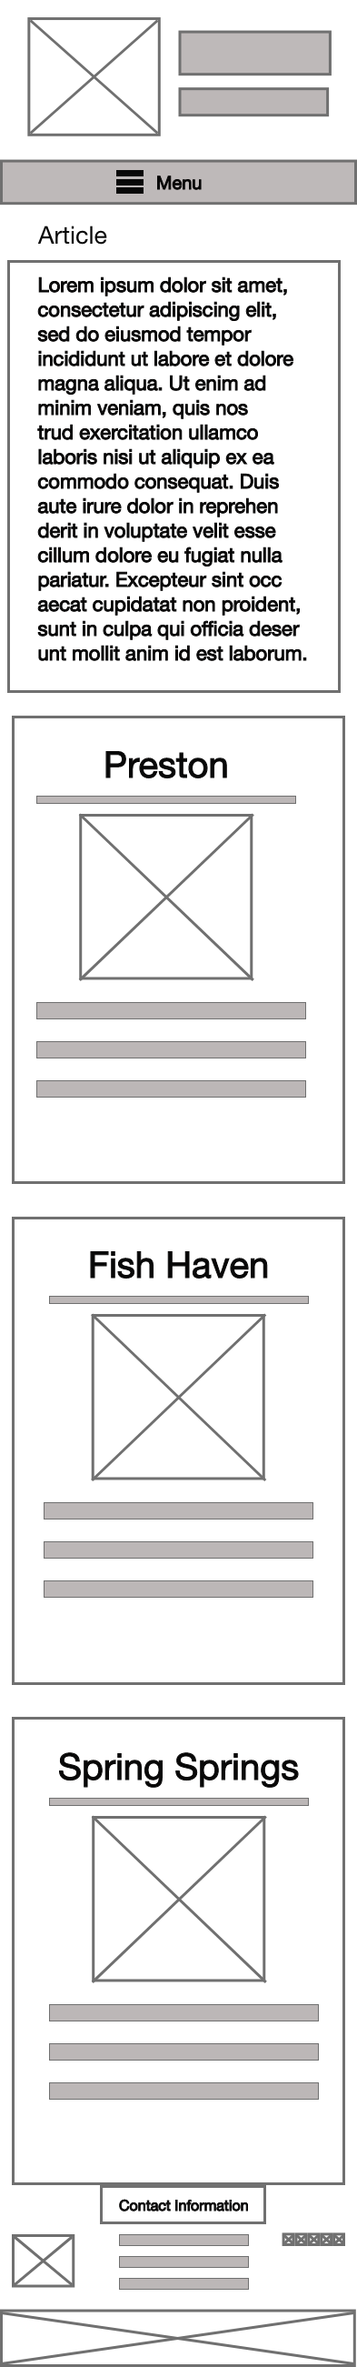
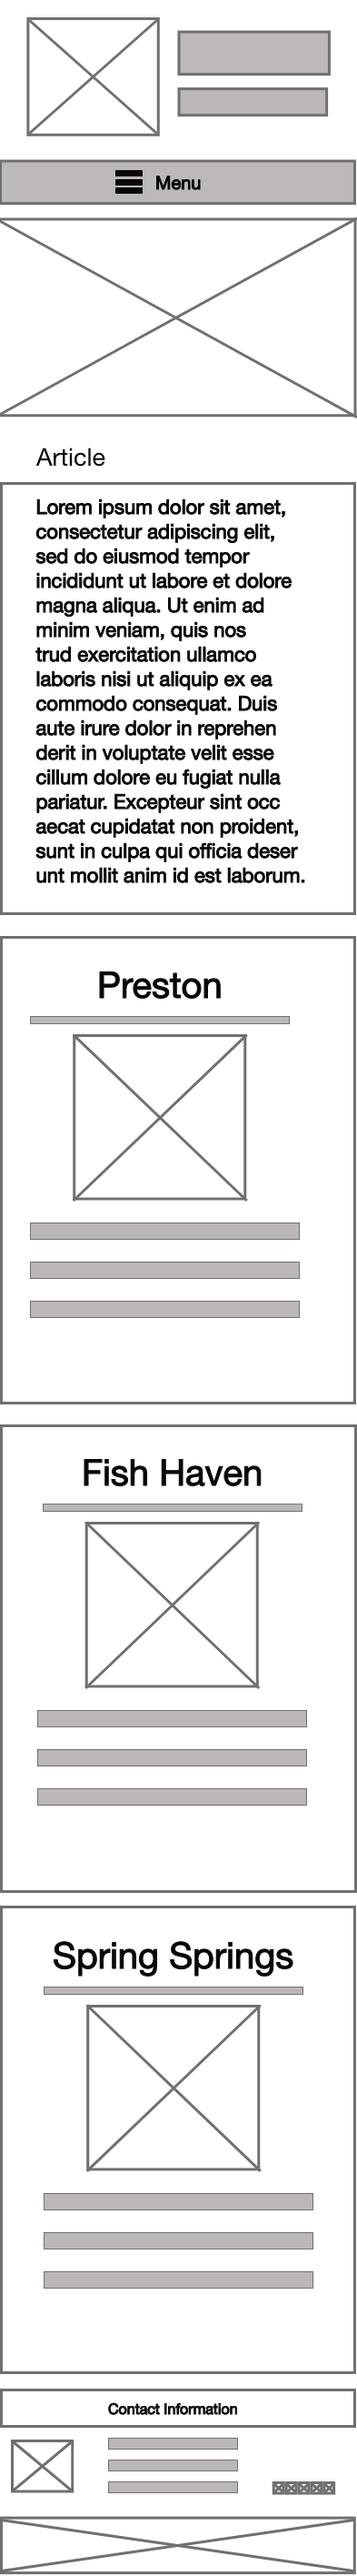
update

Changed region(s): [[0.0, 0.0, 1.0, 1.0]]

diff --git a/lesson9/index.html b/lesson9/index.html
@@ -1,0 +1,73 @@
+<!DOCTYPE html>
+<html lang="en">
+<head>
+    <meta charset="UTF-8">
+    <meta http-equiv="X-UA-Compatible" content="IE=edge">
+    <meta name="viewport" content="width=device-width, initial-scale=1.0">
+    <link rel="shortcut icon" href="./images/favicon.ico" type="image/x-icon">
+    <link href="css/main.css" rel="stylesheet">
+    <link href="css/medium.css" rel="stylesheet">
+    <link href="css/large.css" rel="stylesheet">
+    <link href="css/normalize.css" rel="stylesheet">
+    
+    <title>Home</title>
+</head>
+<body>
+     <header>
+     <div class="top">
+         <img src="images/cloudy.png" alt="Weather Sunny logo" id="logo">
+         <h1>Weather Sunny</h1>
+         <h3>"Weather" or not it is sunny or cold, you will always be prepared.</h3>
+     </div>
+     </header>
+     <div class="lastvisit"> Days since visit</div>
+     <nav>
+         <ul class="navigation responsive">
+             <li class="ham-menu"><a href="#" onclick="toggleMenu()">
+                 <span class="button">&#9776; Menu</span></a></li>
+             <li><a href="index.html" class="active">Home</a></li>
+             <li><a href="../lesson5/preston-5.html">Preston</a></li>
+             <li><a href="#">Soda Springs</a></li>
+             <li><a href="#">Fish Haven</a></li>
+             <li><a href="../lesson8/stormcenter.html">Storm Center</a></li>
+             <li><a href="../lesson7/gallery-7.html">Gallery</a></li>
+         </ul>
+     </nav>
+     <main>
+         <section class="hero-pl-9">
+             <picture>
+                 <source media="(min-width: 48.125em)" srcset="./images/hero-large.jpg">
+                 <source media="(min-width: 26.25em)" srcset="./images/hero-medium.jpg">
+                 <img src="images/hero-small.jpg" alt="Hero Image" class="hero-pl-9">
+             </picture>
+         </section>
+         <section>
+             <article class="home-art">
+                 <h3 class="home-head">Reasons why you should visit Idaho</h3>
+                 <ul class="home-list">
+                     <li>Idaho is beautiful full of wild life and fun for the outdoor explores.</li>
+                     <li>It has great beautiful views and if you are a lover of the cold, there is a lot of snow.</li>
+                     <li>It is a great place for family vacations, from young families to retired couples</li>
+                 </ul>
+             </article>
+         </section>
+        <section class="towns-id">
+
+        </section>
+        <div class="contact"><h3>Contact Information</h3><div class="contact-info">
+            <div class="social-img"><p><img src="./images/ifacebook.png" alt="facebook" class="social"> 
+                <img src="./images/instagram.png" alt="instagram" class="social"> 
+                <img src="./images/tiktok.png" alt="tik tok" class="social"> 
+            <img src="./images/twitter.png" alt="twitter" class="social"></div><iframe src="https://www.google.com/maps/embed?pb=!1m18!1m12!1m3!1d47365.773853438026!2d-111.91534443111685!3d42.09974162639047!2m3!1f0!2f0!3f0!3m2!1i1024!2i768!4f13.1!3m3!1m2!1s0x8754f78c7cda6c31%3A0xf1b3b4fc465a4a3f!2sPreston%2C%20ID%2083263!5e0!3m2!1sen!2sus!4v1635035740846!5m2!1sen!2sus" style="border:0;" allowfullscreen="" loading="lazy"></iframe>
+           <div class="contact-address"><span class="contact-ws"> Weather Sunny </span> <br> 2000 East 4000 South<br>Preston Idaho, 83263</div>
+        </div></div>
+        </main>
+     <footer> &copy; <span id="copyright"></span> | Stephanie Steck | Utah | <a id="footer-link" href="byui.edu" target="_blank">BYUI Online Learning </a> <br><span id="lastmod"></span>
+     </footer>
+     <script src="./js/footer.js"></script>
+     <script src="./js/script.js"></script>
+     <script src="https://ajax.googleapis.com/ajax/libs/webfont/1.6.26/webfont.js"></script>
+     <script src="./js/webfront.js" defer> </script>
+     <script src="./js/towns.js"></script>
+</body>
+</html>

diff --git a/lesson9/js/towns.js b/lesson9/js/towns.js
@@ -1,0 +1,71 @@
+const townURL = 'https://byui-cit230.github.io/weather/data/towndata.json';
+
+fetch(townURL)
+.then(function (response) {
+    return response.json();
+})
+.then(function (jsonObject){
+    console.table(jsonObject);
+
+    const towns = jsonObject['towns'];
+
+    const townList = ["Soda Springs", "Fish Haven", "Preston"];
+
+    for (let i = 0; i <towns.length; i++) {
+        if(townList.includes(towns[i].name)) {
+            let townImage;
+
+            switch (towns[i].name) {
+                case 'Soda Springs': 
+                townImage = './images/sodasprings.jpg';
+                break;
+                case 'Fish Haven':
+                    townImage ='./images/fishhaven.jpg';
+                break;
+                case 'Preston':
+                    townImage ='./images/preston.jpg';
+                break;
+            }
+
+
+            let townDiv = document.createElement('div');
+            let textDiv = document.createElement('div');
+            let townH3 = document.createElement('h3');
+            let motto = document.createElement('p');
+            let yearFounded = document.createElement('p');
+            let rainFall = document.createElement('p');
+            let population = document.createElement('p');
+            let townImg = document.createElement('img');
+
+            townDiv.classList.add('town-div');
+            textDiv.classList.add('text-div');
+            townH3.classList.add('town-h3');
+            motto.classList.add('motto');
+            yearFounded.classList.add('town-founded');
+            yearFounded.classList.add('town-p');
+            rainFall.classList.add('town-rain');
+            rainFall.classList.add('town-p');
+            population.classList.add('pop');
+            population.classList.add('town-p');
+            townImg.classList.add('town-img');
+
+            townH3.textContent = towns[i].name;
+            motto.textContent = `${towns[i].motto}`;
+            yearFounded.textContent = `Year Founded: ${towns[i].yearFounded}`;
+            rainFall.textContent = `Average Rainfall: ${towns[i].averageRainfall}`;
+            population.textContent = `Current Population: ${towns[i].currentPopulation}`;
+            townImg.src = townImage;
+            townImg.alt = `image of town ${towns[i].name}`;
+
+            textDiv.appendChild(townH3);
+            textDiv.appendChild(motto);
+            textDiv.appendChild(yearFounded);
+            textDiv.appendChild(rainFall);
+            textDiv.appendChild(population);
+            townDiv.appendChild(textDiv);
+            townDiv.appendChild(townImg);
+
+            document.querySelector('.towns-id').appendChild(townDiv);
+        }
+    }
+});

diff --git a/lesson9/css/main.css b/lesson9/css/main.css
@@ -238,17 +238,20 @@ table {
 iframe {
     grid-column: 1;
     padding-right: 20px;
-    width: 100px;
+    width: 50%;
     
 }
 
 .contact-address {
     grid-row-start: 1;
-    
 }
 
 .social-img {
     display: block;
+}
+
+.social {
+    width: 50px;
 }
 
 /* ----------------------------Footer info -----------------------------------*/
@@ -385,4 +388,27 @@ input {
     padding-left: 20px;
     padding-right: 20px;
     text-align: center;
+}
+/*--------------------------------Home Page ----------------------------------------*/
+.home-art {
+    background-color: #FFEC99;
+    color: #004466;
+    border: solid 4px #004466;
+}
+
+.hero-pl-9 {
+    margin: auto;
+    width: 100%;
+}
+
+.towns-id {
+    margin: auto;
+    width: 100%;
+    background-color: #FFEC99;
+    color: #004466;
+    border: solid 4px #004466;
+}
+
+.home-list {
+    list-style-type: none;
 }

diff --git a/lesson9/css/medium.css b/lesson9/css/medium.css
@@ -18,14 +18,14 @@
     }
 
     iframe {
-        width: 50%;
+        width: 25%;
     }
  /* ------------------------------ Gallery Page -------------------------------------------*/
     
     .grid {
         display: grid;
         grid-template-columns: 1fr 1fr;
-        grid-gap: none;
+        grid-gap: 0;
     }
 
     figure, img{
@@ -51,5 +51,29 @@
     /*-------------------Thank You Page --------------------------------------*/
     .thank-you {
         width: 100%;
+    }
+
+    img.hero-pl-9 {
+        width: 100%;
+    }
+
+    .town-img {
+        width: 50%;
+        height: 150px;
+        padding-top: 60px;
+    }
+
+    .towns-id {
+        width: 100%;   
+    }
+
+    .town-div {
+        display: flex;
+        flex-direction: row;
+        width: 100%;
+    }
+
+    .town-div:nth-child(odd) {
+        flex-direction: row-reverse;
     }
 } 

diff --git a/lesson9/css/large.css b/lesson9/css/large.css
@@ -196,4 +196,37 @@
             margin: auto;
             font-size: 20px;
         }
+
+        /*-------------------------------------Home Page----------------------------------------*/
+        .home-art {
+            width: 48.125em;
+            margin: auto;
+        }
+
+        .hero-pl-9 {
+            width: 48.125em;
+        }
+
+        img.hero-pl-9 {
+            width: 770px;
+        }
+
+        .towns-id {
+            width: 48.125em;
+            display: flex;
+            flex-direction: row;
+        }
+
+        .town-img {
+            width: 200px;
+            margin: 5px;
+        }
+
+        p.motto {
+            width: 200px;
+        }
+
+        div.town-div {
+            width: 260px;
+        }
 }
